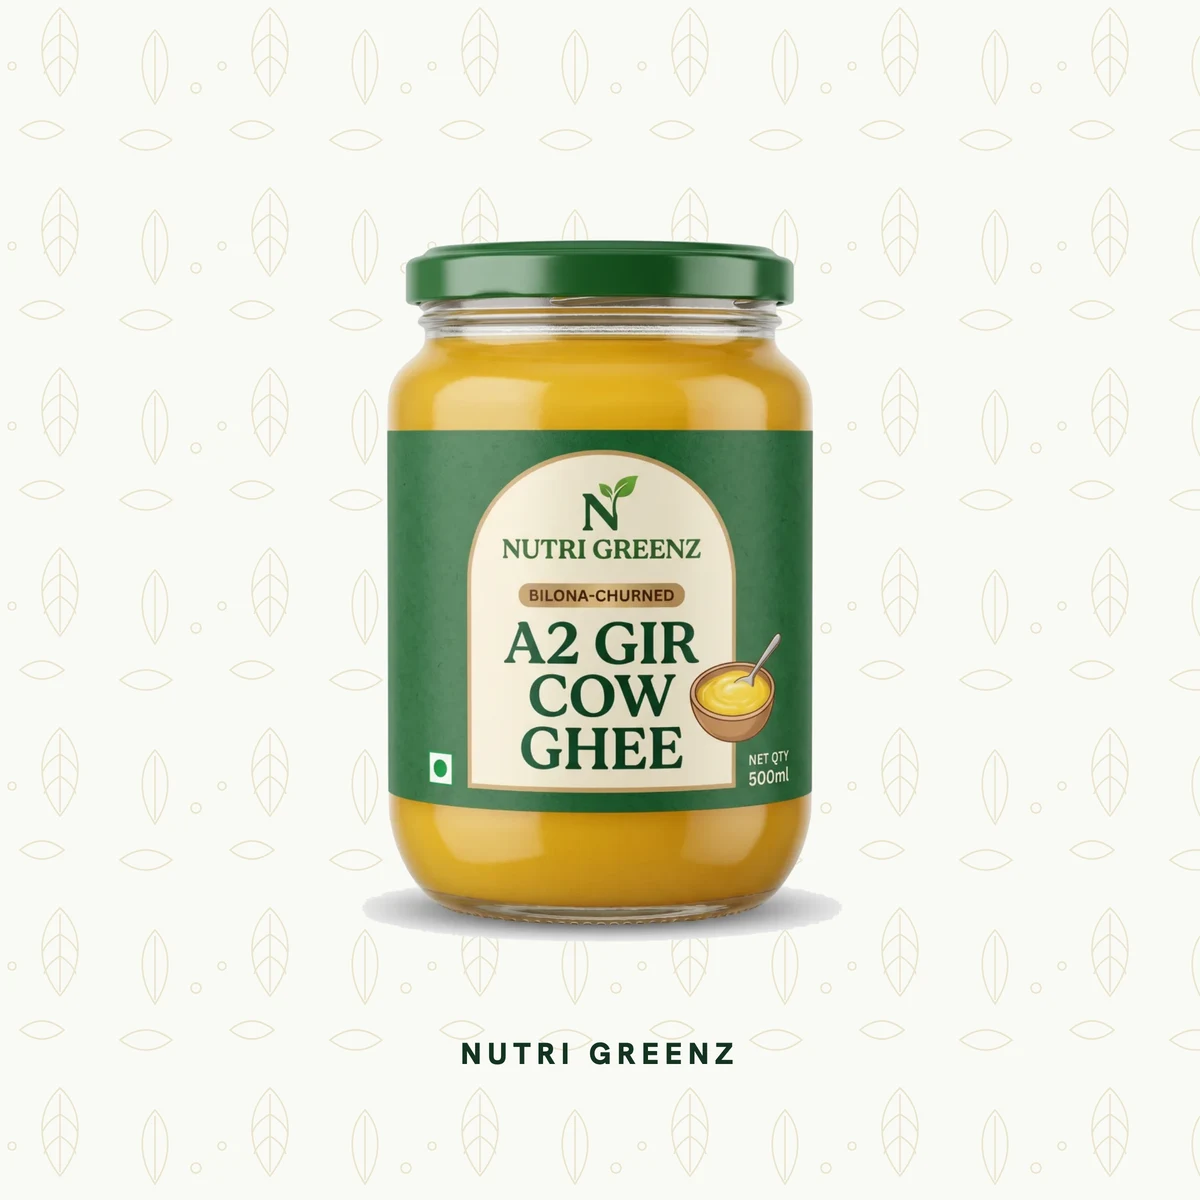
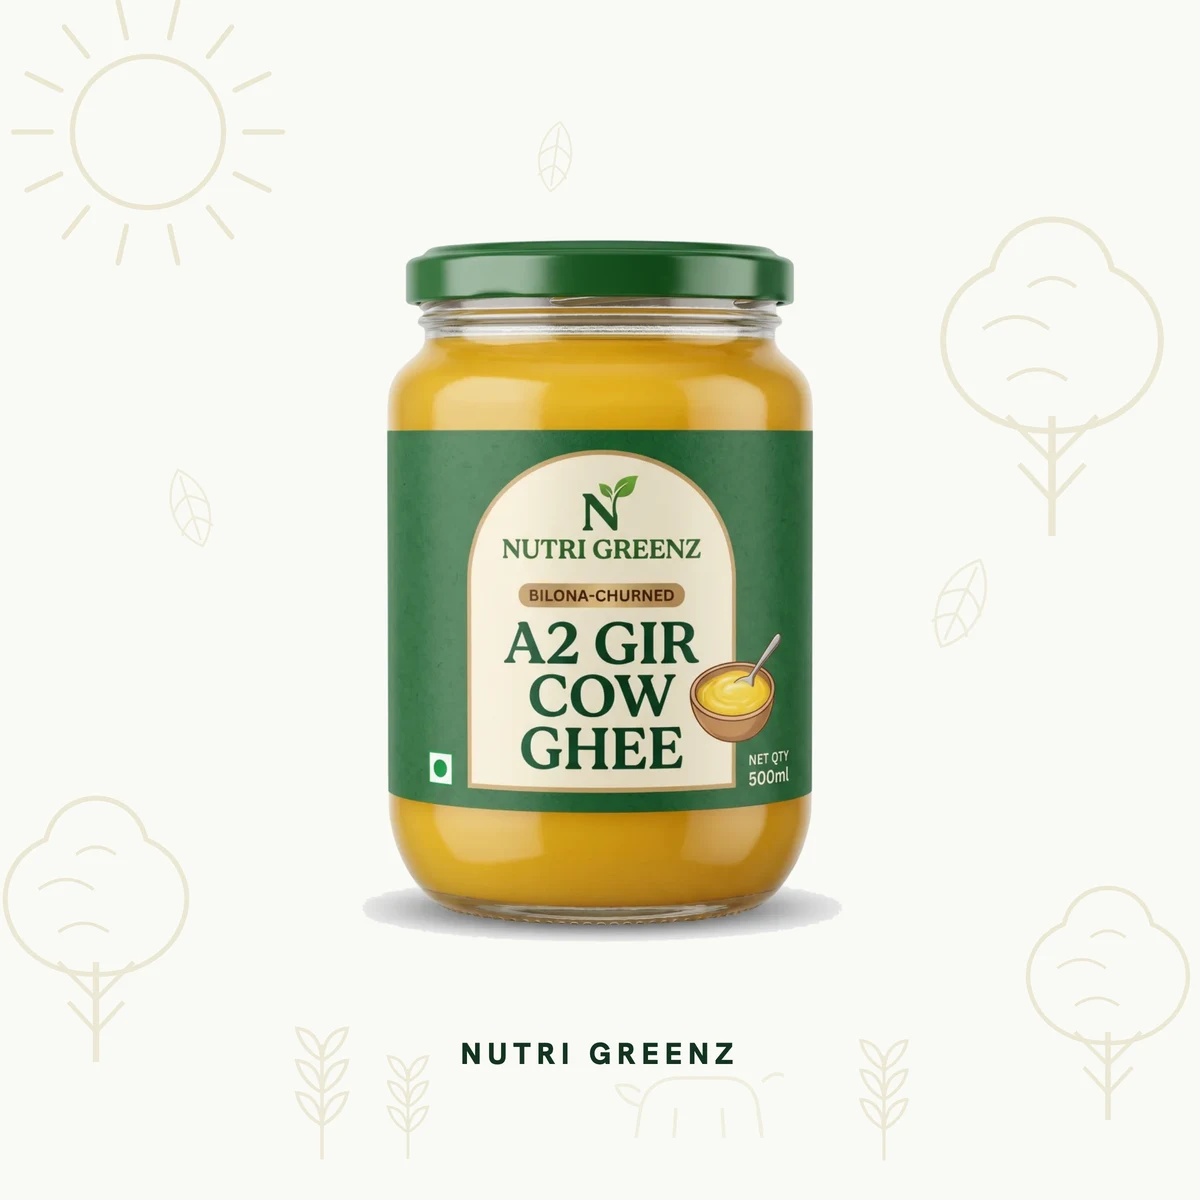
Make the gallery panels actually readable on the product page
They were unreadable in the storefront. The PDP stage is ~444px and the
panels are drawn on a 1200px canvas, so body copy landed near 9px on
screen, and there was no way to enlarge anything.

Four fixes.

Type is bigger and the copy sits in fewer, wider columns, so the
comparison panel now reads at stage size rather than only when zoomed.

A full-screen viewer opens from a magnifier in the corner - the same
affordance the reference uses, and the only way a nutrition table of this
density is ever legible. It renders at 1100px against 444 in the stage.
It is portalled to <body>: left in the page it sat inside the PDP's
stacking context and the sticky site header painted straight over it
despite a higher z-index, which no z-index on the element itself can fix.

The background was a ~200px leaf motif tiled across the canvas - wallpaper
that is busy up close and invisible in a thumbnail. It is now one farm
scene drawn at canvas scale: a sun in a corner, three trees, wheat along
the bottom, a grazing cow, placed away from the centre so it sits behind
the content instead of fighting it. The comparison halves paint their own
solid backgrounds, so they re-inject the backdrop in a stroke colour that
reads against each side.

The comparison bottle is split down the middle - the same image twice,
clipped per half, with the right side desaturated and lightened to stand
for refined oil. That one image carries the argument the copy is making
[…]

diff --git a/src/components/ng/pdp/gallery.tsx b/src/components/ng/pdp/gallery.tsx
@@ -1,6 +1,7 @@
 "use client";
 
 import { useEffect, useMemo, useRef, useState } from "react";
+import { createPortal } from "react-dom";
 import Image from "next/image";
 import { useReducedMotion } from "framer-motion";
 import { cn } from "@/lib/utils";
@@ -41,6 +42,15 @@ interface GalleryProps {
 }
 
 const PLACEHOLDER = "/images/placeholder.svg";
+
+/**
+ * A generated infographic panel rather than a product photograph.
+ *
+ * These are square, full-bleed, and carry dense type — a nutrition table, a
+ * comparison chart. They need to fill the frame and to be openable full-screen;
+ * a bottle shot needs neither.
+ */
+const isPanel = (src: string) => src.includes("/gallery/");
 
 /**
  * Interactive product gallery — main viewer + clickable thumbnail rail, with
@@ -94,13 +104,35 @@ export function Gallery({ images, badge, badgeTone, discount, produceIcon = "lea
 
   const count = displayImages.length;
   const [active, setActive] = useState(0);
+  const [zoomed, setZoomed] = useState(false);
+  // createPortal needs document; guard for the server render.
+  const [mounted, setMounted] = useState(false);
+  useEffect(() => setMounted(true), []);
   const clampedActive = Math.min(active, count - 1);
+
+  useEffect(() => {
+    if (!zoomed) return;
+    const onKey = (e: KeyboardEvent) => {
+      if (e.key === "Escape") setZoomed(false);
+      if (e.key === "ArrowRight") setActive((i) => Math.min(i + 1, count - 1));
+      if (e.key === "ArrowLeft") setActive((i) => Math.max(i - 1, 0));
+    };
+    document.addEventListener("keydown", onKey);
+    const prev = document.body.style.overflow;
+    document.body.style.overflow = "hidden";
+    return () => {
+      document.removeEventListener("keydown", onKey);
+      document.body.style.overflow = prev;
+    };
+  }, [zoomed, count]);
 
   // Snap back to the lead image whenever the shopper changes size/SKU, so the
   // (possibly variant-specific) hero shot is what they see for the new pick.
   useEffect(() => {
     setActive(0);
   }, [selectedId, variantSrc]);
+
+  const activeIsPanel = isPanel(displayImages[clampedActive]?.src ?? "");
 
   const go = (i: number) => setActive(Math.min(Math.max(0, i), count - 1));
 
@@ -126,8 +158,81 @@ export function Gallery({ images, badge, badgeTone, discount, produceIcon = "lea
     }
   };
 
+  const zoomImage = displayImages[clampedActive];
+
   return (
     <div className="flex flex-col-reverse gap-4 md:flex-row">
+      {/*
+        Full-screen viewer. Rendered at the panel's own scale so the nutrition
+        table and the comparison chart are finally readable at the size they
+        were designed for.
+      */}
+      {/*
+        Portalled to <body>. Left in place it sat inside the page's stacking
+        context and the sticky site header painted straight over it, despite a
+        higher z-index — the header wins from an ancestor context, which no
+        z-index on this element can beat.
+      */}
+      {mounted && zoomed && zoomImage && !isPlaceholderSrc(zoomImage.src)
+        ? createPortal(
+        <div
+          className="fixed inset-0 z-[9999] flex flex-col bg-ng-forest-deep/95 backdrop-blur-sm"
+          role="dialog"
+          aria-modal="true"
+          aria-label={zoomImage.alt}
+        >
+          <div className="flex shrink-0 items-center justify-between gap-4 px-5 py-4">
+            <span className="text-[13px] font-medium text-ng-cream/85">
+              {zoomImage.label ?? zoomImage.alt} · {clampedActive + 1} of {count}
+            </span>
+            <button
+              type="button"
+              onClick={() => setZoomed(false)}
+              aria-label="Close"
+              className="grid size-10 cursor-pointer place-items-center rounded-full bg-ng-cream/15 text-ng-cream transition-colors hover:bg-ng-cream/25"
+            >
+              <svg width="18" height="18" viewBox="0 0 24 24" fill="none" stroke="currentColor"
+                   strokeWidth="2" strokeLinecap="round" aria-hidden="true">
+                <path d="M18 6 6 18M6 6l12 12" />
+              </svg>
+            </button>
+          </div>
+
+          {/* Scrollable so a tall panel can be read on a phone. */}
+          <div className="min-h-0 flex-1 overflow-auto px-4 pb-4">
+            {/* eslint-disable-next-line @next/next/no-img-element */}
+            <img
+              src={zoomImage.src}
+              alt={zoomImage.alt}
+              className="mx-auto h-auto w-full max-w-[1100px] rounded-2xl"
+            />
+          </div>
+
+          {count > 1 ? (
+            <div className="flex shrink-0 items-center justify-center gap-3 px-5 py-4">
+              <button
+                type="button"
+                onClick={() => go(clampedActive - 1)}
+                disabled={clampedActive === 0}
+                className="cursor-pointer rounded-full bg-ng-cream/15 px-4 py-2 text-[13px] font-semibold text-ng-cream transition-colors hover:bg-ng-cream/25 disabled:cursor-not-allowed disabled:opacity-40"
+              >
+                Previous
+              </button>
+              <button
+                type="button"
+                onClick={() => go(clampedActive + 1)}
+                disabled={clampedActive === count - 1}
+                className="cursor-pointer rounded-full bg-ng-cream/15 px-4 py-2 text-[13px] font-semibold text-ng-cream transition-colors hover:bg-ng-cream/25 disabled:cursor-not-allowed disabled:opacity-40"
+              >
+                Next
+              </button>
+            </div>
+          ) : null}
+        </div>,
+            document.body,
+          )
+        : null}
+
       {/* Thumbnails */}
       <div className="flex flex-row gap-3 overflow-x-auto pb-1 [-ms-overflow-style:none] [scrollbar-width:none] md:flex-col md:overflow-visible md:pb-0">
         {displayImages.map((img, i) => (
@@ -200,9 +305,14 @@ export function Gallery({ images, badge, badgeTone, discount, produceIcon = "lea
                     draggable={false}
                     sizes="(max-width: 768px) 100vw, 50vw"
                     className={cn(
-                      // Fit fully INSIDE the frame — never scale past 100% at rest
-                      // (that overflowed the stage and looked oversized/cropped).
-                      "object-contain p-4",
+                      /*
+                       * Generated panels are square, full-bleed artwork that
+                       * already carries its own background and margins. Padding
+                       * them inside the frame shrank type that is small to begin
+                       * with; they fill the stage instead. Product photography
+                       * keeps the inset so a bottle never touches the edge.
+                       */
+                      isPanel(img.src) ? "object-cover" : "object-contain p-4",
                       reduce
                         ? ""
                         : "transition-transform duration-500 ease-[cubic-bezier(0.16,1,0.3,1)] group-hover:scale-[1.03]",
@@ -213,17 +323,47 @@ export function Gallery({ images, badge, badgeTone, discount, produceIcon = "lea
             ))}
           </div>
 
-          {/* Badges (static overlay, above the track) */}
-          <div className="pointer-events-none absolute left-5 top-5 z-10 flex flex-col gap-2">
-            {badge ? <Badge tone={badgeTone ?? "leaf"}>{badge}</Badge> : null}
-            {discount && discount > 0 && !badge ? <Badge tone="terracotta">{discount}% OFF</Badge> : null}
-          </div>
+          {/*
+            Store chrome is hidden over a generated panel.
 
-          {/* Corner provenance tag */}
-          <div className="pointer-events-none absolute bottom-5 right-5 z-10 inline-flex items-center gap-1.5 rounded-full bg-ng-paper/80 px-3 py-1.5 text-[11px] font-medium text-ng-forest backdrop-blur-sm">
-            <span className="h-1.5 w-1.5 rounded-full bg-ng-leaf" />
-            Single-origin
-          </div>
+            The badge and the provenance tag are positioned for a product photo,
+            which has empty corners. A panel does not — "BEST SELLER" landed
+            directly on top of the comparison panel's own "Cold-Pressed" pill,
+            each making the other unreadable.
+          */}
+          {!activeIsPanel ? (
+            <>
+              <div className="pointer-events-none absolute left-5 top-5 z-10 flex flex-col gap-2">
+                {badge ? <Badge tone={badgeTone ?? "leaf"}>{badge}</Badge> : null}
+                {discount && discount > 0 && !badge ? <Badge tone="terracotta">{discount}% OFF</Badge> : null}
+              </div>
+
+              <div className="pointer-events-none absolute bottom-5 right-5 z-10 inline-flex items-center gap-1.5 rounded-full bg-ng-paper/80 px-3 py-1.5 text-[11px] font-medium text-ng-forest backdrop-blur-sm">
+                <span className="h-1.5 w-1.5 rounded-full bg-ng-leaf" />
+                Single-origin
+              </div>
+            </>
+          ) : null}
+
+          {/*
+            Open full-screen.
+
+            These panels carry a nutrition table and a comparison chart at a size
+            chosen for a 1200px canvas; the PDP stage is ~440px, so at rest the
+            body copy lands near 9px. Enlarging is not a nicety here — it is the
+            only way to actually read them.
+          */}
+          <button
+            type="button"
+            onClick={() => setZoomed(true)}
+            aria-label="View larger"
+            className="absolute left-4 top-4 z-20 grid size-10 cursor-pointer place-items-center rounded-full bg-ng-paper/90 text-ng-forest shadow-[0_2px_10px_rgba(20,51,31,0.18)] backdrop-blur transition-transform hover:scale-105"
+          >
+            <svg width="17" height="17" viewBox="0 0 24 24" fill="none" stroke="currentColor"
+                 strokeWidth="2" strokeLinecap="round" strokeLinejoin="round" aria-hidden="true">
+              <circle cx="11" cy="11" r="7" /><path d="m20 20-3.2-3.2M11 8v6M8 11h6" />
+            </svg>
+          </button>
 
           {/* Dots — swipe position indicator (mobile; desktop uses the thumb rail) */}
           {count > 1 ? (
